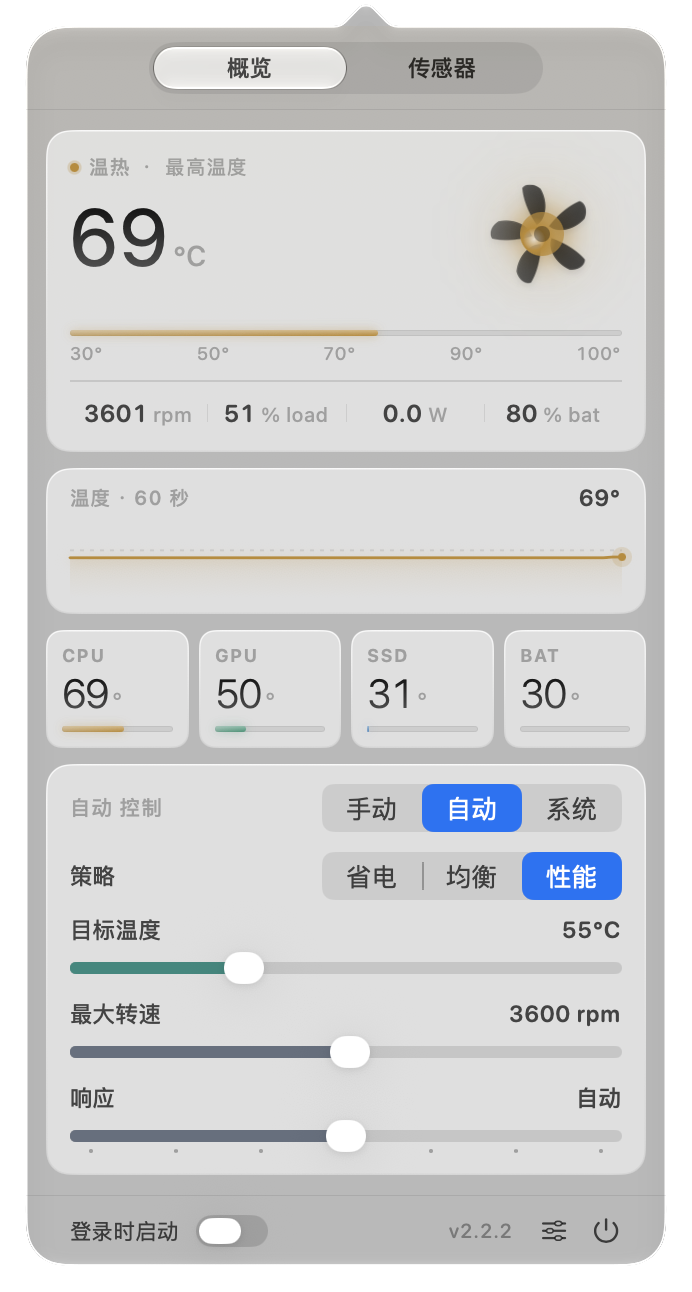
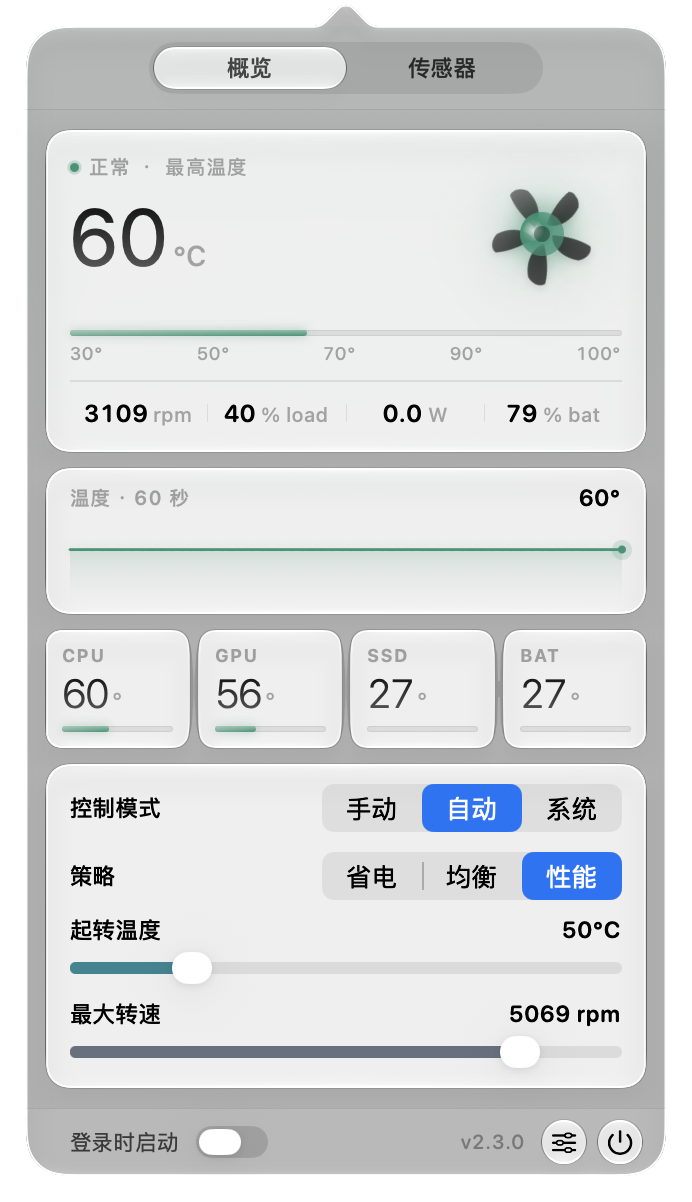
📝 docs(readme): describe strategy curves and refresh screenshots

Changed region(s): [[0.0607, 0.0308, 0.9408, 0.985], [0.5766, 0.0308, 0.698, 0.0616], [0.4552, 0.0, 0.5766, 0.0308]]

diff --git a/README.en.md b/README.en.md
@@ -21,7 +21,7 @@ FanFan sits in the menu bar and shows your Mac's temperatures and fan speeds. Yo
 <table>
   <tr>
     <td width="42%" align="center"><img src="docs/view/en/popover.png" alt="FanFan menu bar popover showing Mac temperature, fan RPM, a 60-second temperature chart, CPU/GPU/SSD/battery sensors, and automatic fan control"></td>
-    <td width="58%" align="center"><img src="docs/view/en/settings.png" alt="FanFan settings: menu bar display, monitoring interval, high temperature alert, notifications, auto mode switching, and custom PID gains"></td>
+    <td width="58%" align="center"><img src="docs/view/en/settings.png" alt="FanFan settings: sidebar pages, the strategy list, and a draggable temperature-to-fan-speed curve"></td>
   </tr>
   <tr>
     <td align="center"><sub>Menu bar popover</sub></td>
@@ -33,10 +33,10 @@ FanFan sits in the menu bar and shows your Mac's temperatures and fan speeds. Yo
 
 - Fan RPM plus CPU, GPU, SSD and battery temperatures, depending on which sensors your Mac has. The popover shows the last 60 seconds as a chart, and the Sensors tab lists every reading.
 - Three fan modes: a fixed RPM, automatic control based on temperature, or the Mac's own firmware control. On Macs with two fans you can set each one separately.
-- Automatic mode lets you change the target temperature, the maximum speed and how quickly it reacts. There are Power Saving, Balanced and Performance presets, or your own settings. Speed changes are smoothed (fast up, slow down) to avoid constant surging.
+- Automatic mode follows each strategy's temperature-to-speed curve. Power Saving, Balanced and Performance are built in; in Settings › Strategy you can drag points to reshape a curve, and create or rename strategies of your own. The popover adjusts the ramp-start temperature and maximum speed directly. Speed changes are smoothed (fast up, slow down) to avoid constant surging.
+- Schedule: switch the fan mode and strategy at set times, every day, on weekdays or on weekends, for example a quieter strategy at night.
 - The menu bar item can show temperature, power draw, fan speed as a percentage, or just the icon.
-- A notification when the temperature passes a limit you set, with an option to switch to automatic mode at the same time.
-- Custom PID gains when none of the presets fit your workload.
+- A notification when the temperature passes a limit you set, with an option to switch to automatic mode at the same time. Above 85°C, thermal protection lets the fans exceed your maximum speed, up to a limit you can set.
 - English, 简体中文, 繁體中文, 日本語, 한국어, Deutsch, Français and Español. FanFan follows the system language, or you can set its language on its own in System Settings › General › Language & Region › Applications.
 - Built-in updates: FanFan checks for new versions in the background and offers to install them and relaunch. You can also check by hand, or turn automatic checks off, in Settings › About.
 - Fan speeds are written by a separate privileged helper. If the app hangs for more than 10 seconds, quits or crashes, the fans go back to macOS control.
